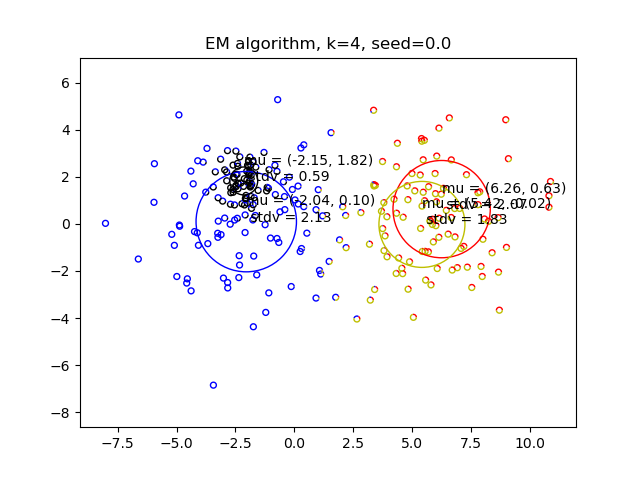
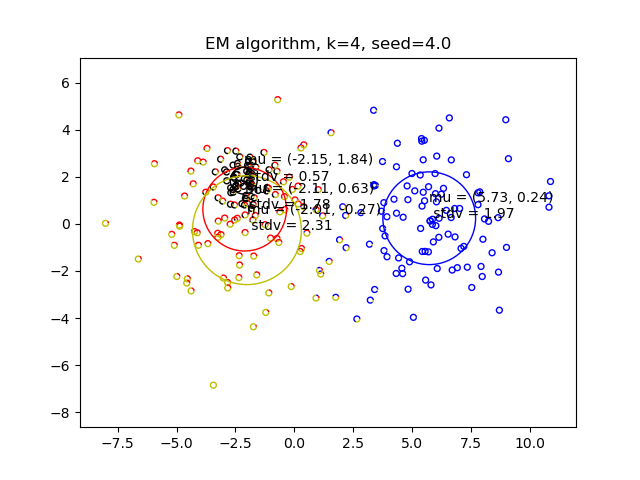
re-execution of section 4 to store graph for optimals seeds

diff --git a/units/unit_4/project_4/main.py b/units/unit_4/project_4/main.py
@@ -167,7 +167,7 @@ if __name__ == "__main__":
     X = np.loadtxt("toy_data.txt")
 
     # Run section 2 execution, k-means algorithm for toy data set
-    # oseed_s2 = run_section_2(X)
+    oseed_s2 = run_section_2(X)
     # oseed_s2 = np.zeros(4)
     # Run section 3 execution, EM algorithm for matrix completion
     # run_section_3(X)
@@ -177,7 +177,7 @@ if __name__ == "__main__":
     # oseed_s4 = np.zeros(4)
 
     # Run section 4, part 2, comparison between methods, plot graphs
-    # run_section_4_plots(X, oseed_s2, oseed_s4)
+    run_section_4_plots(X, oseed_s2, oseed_s4)
 
     # Run section 5, calculate BIC and get best k
-    run_section_5(X, oseed_s4)
+    # run_section_5(X, oseed_s4)
